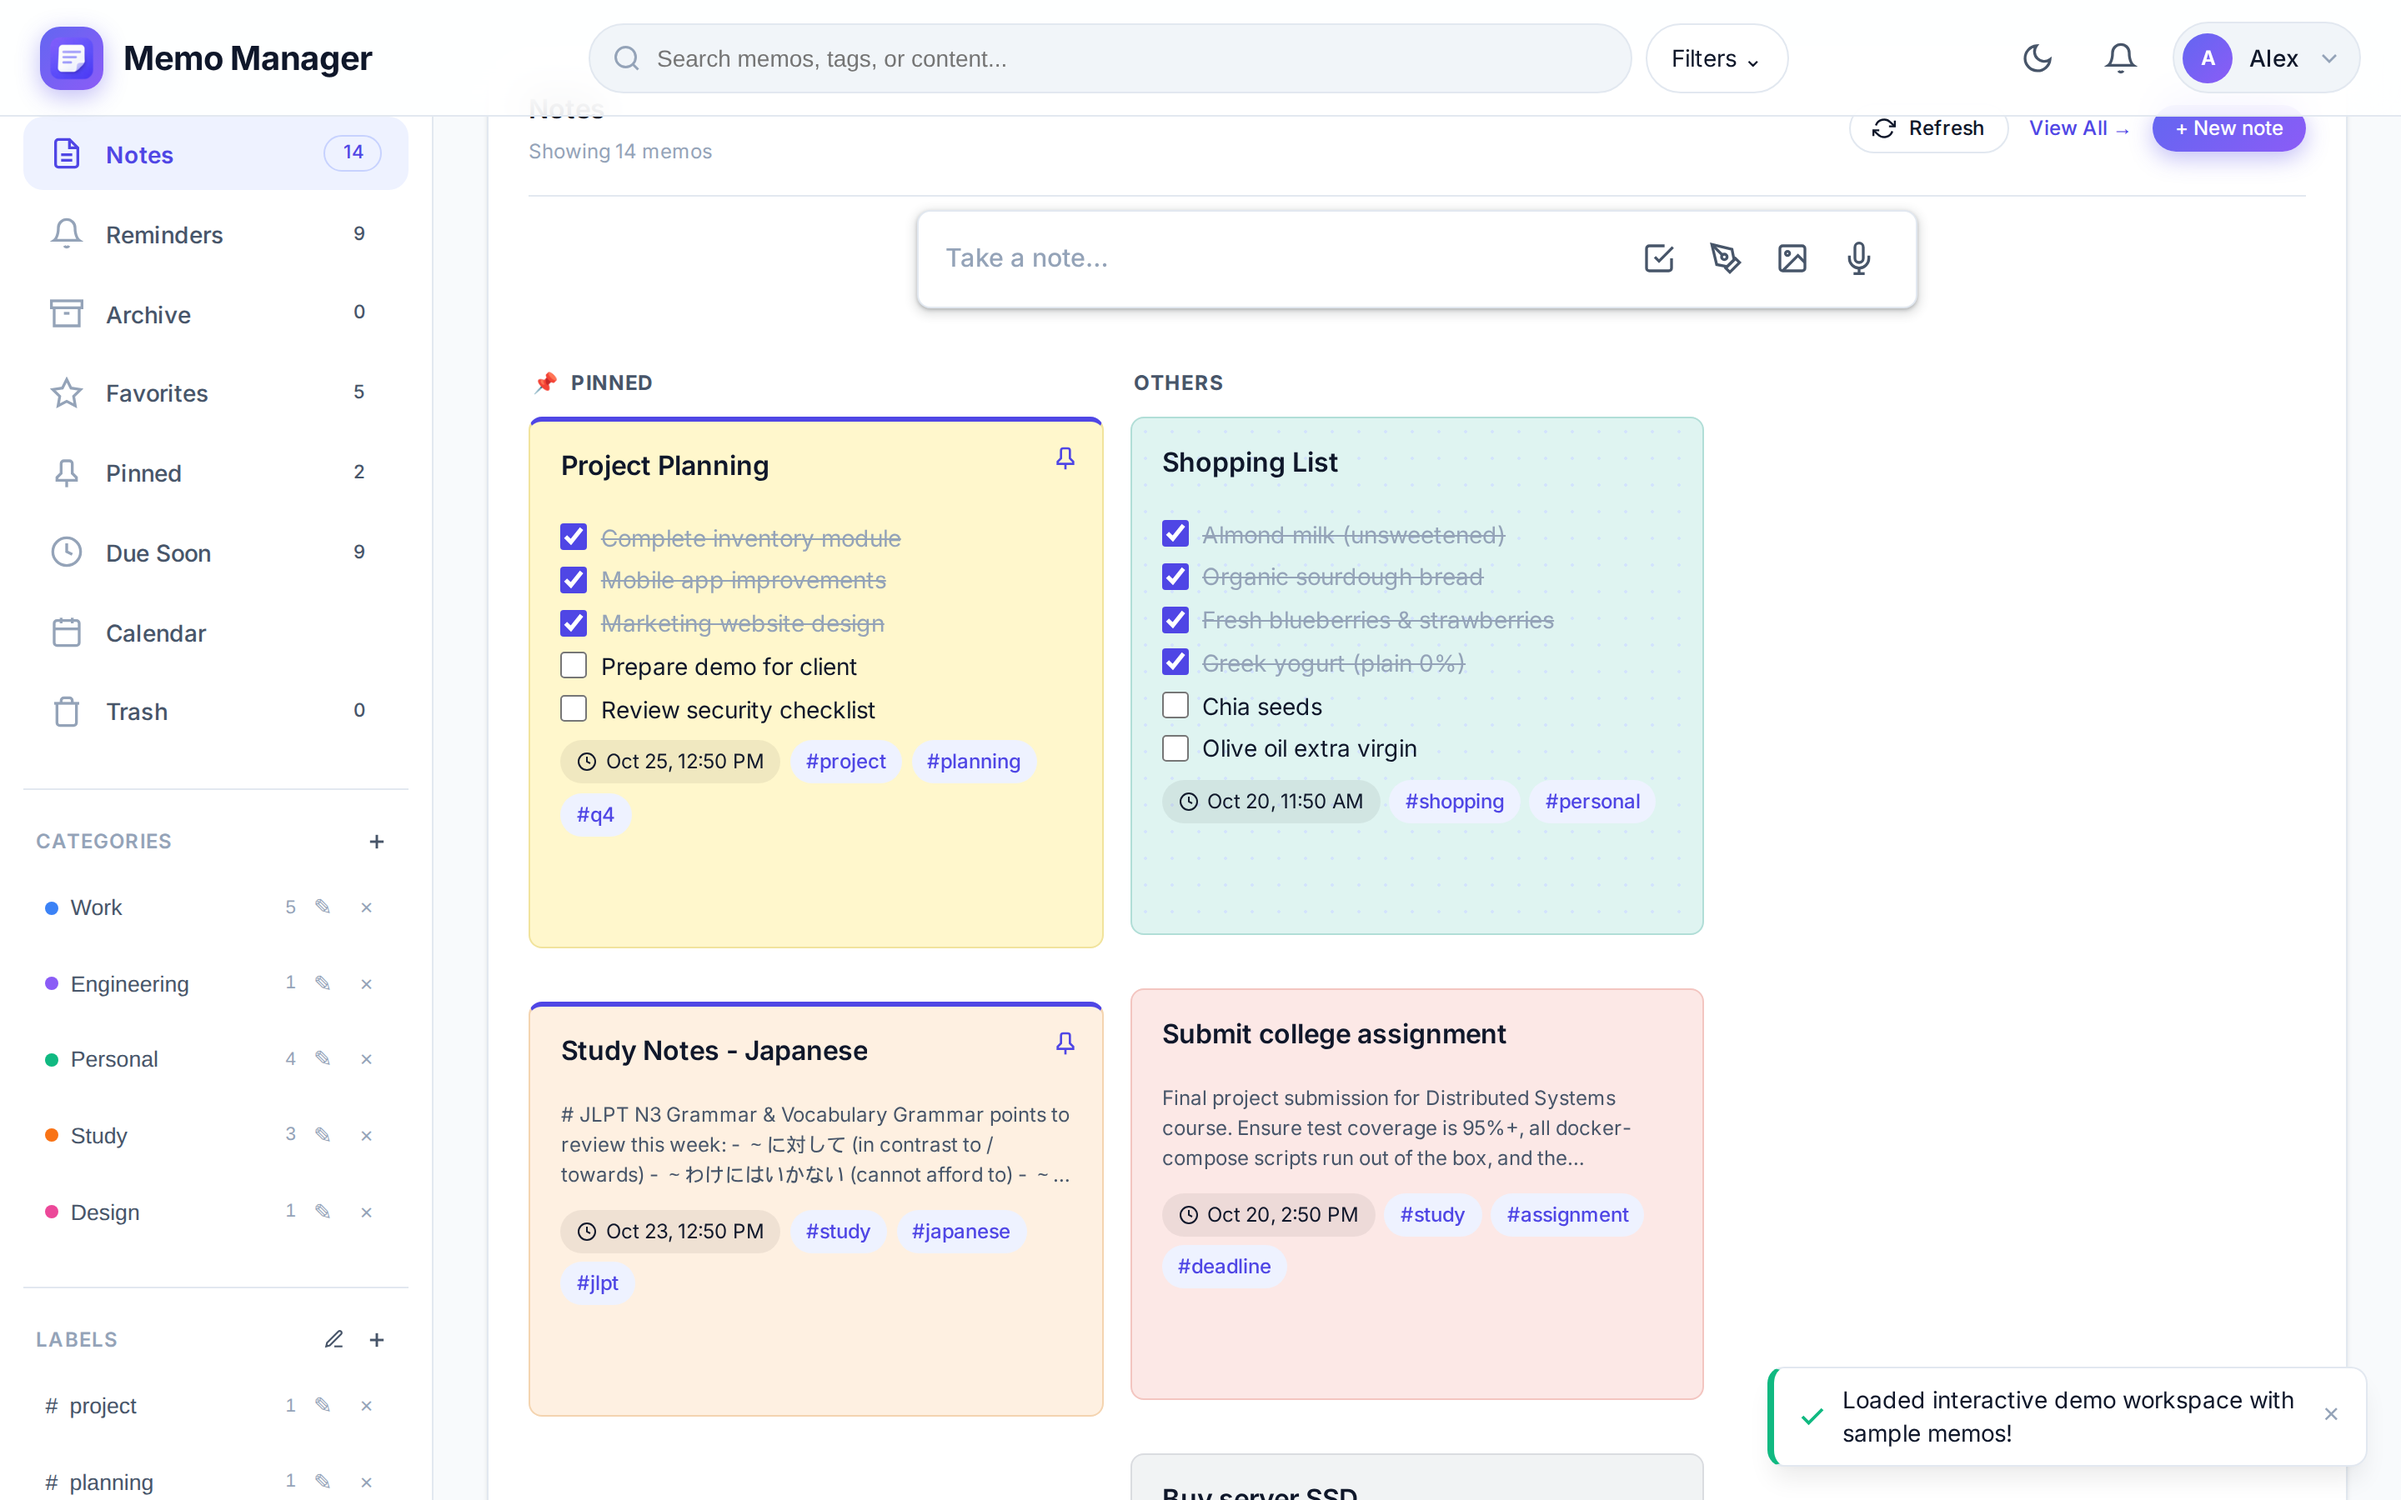
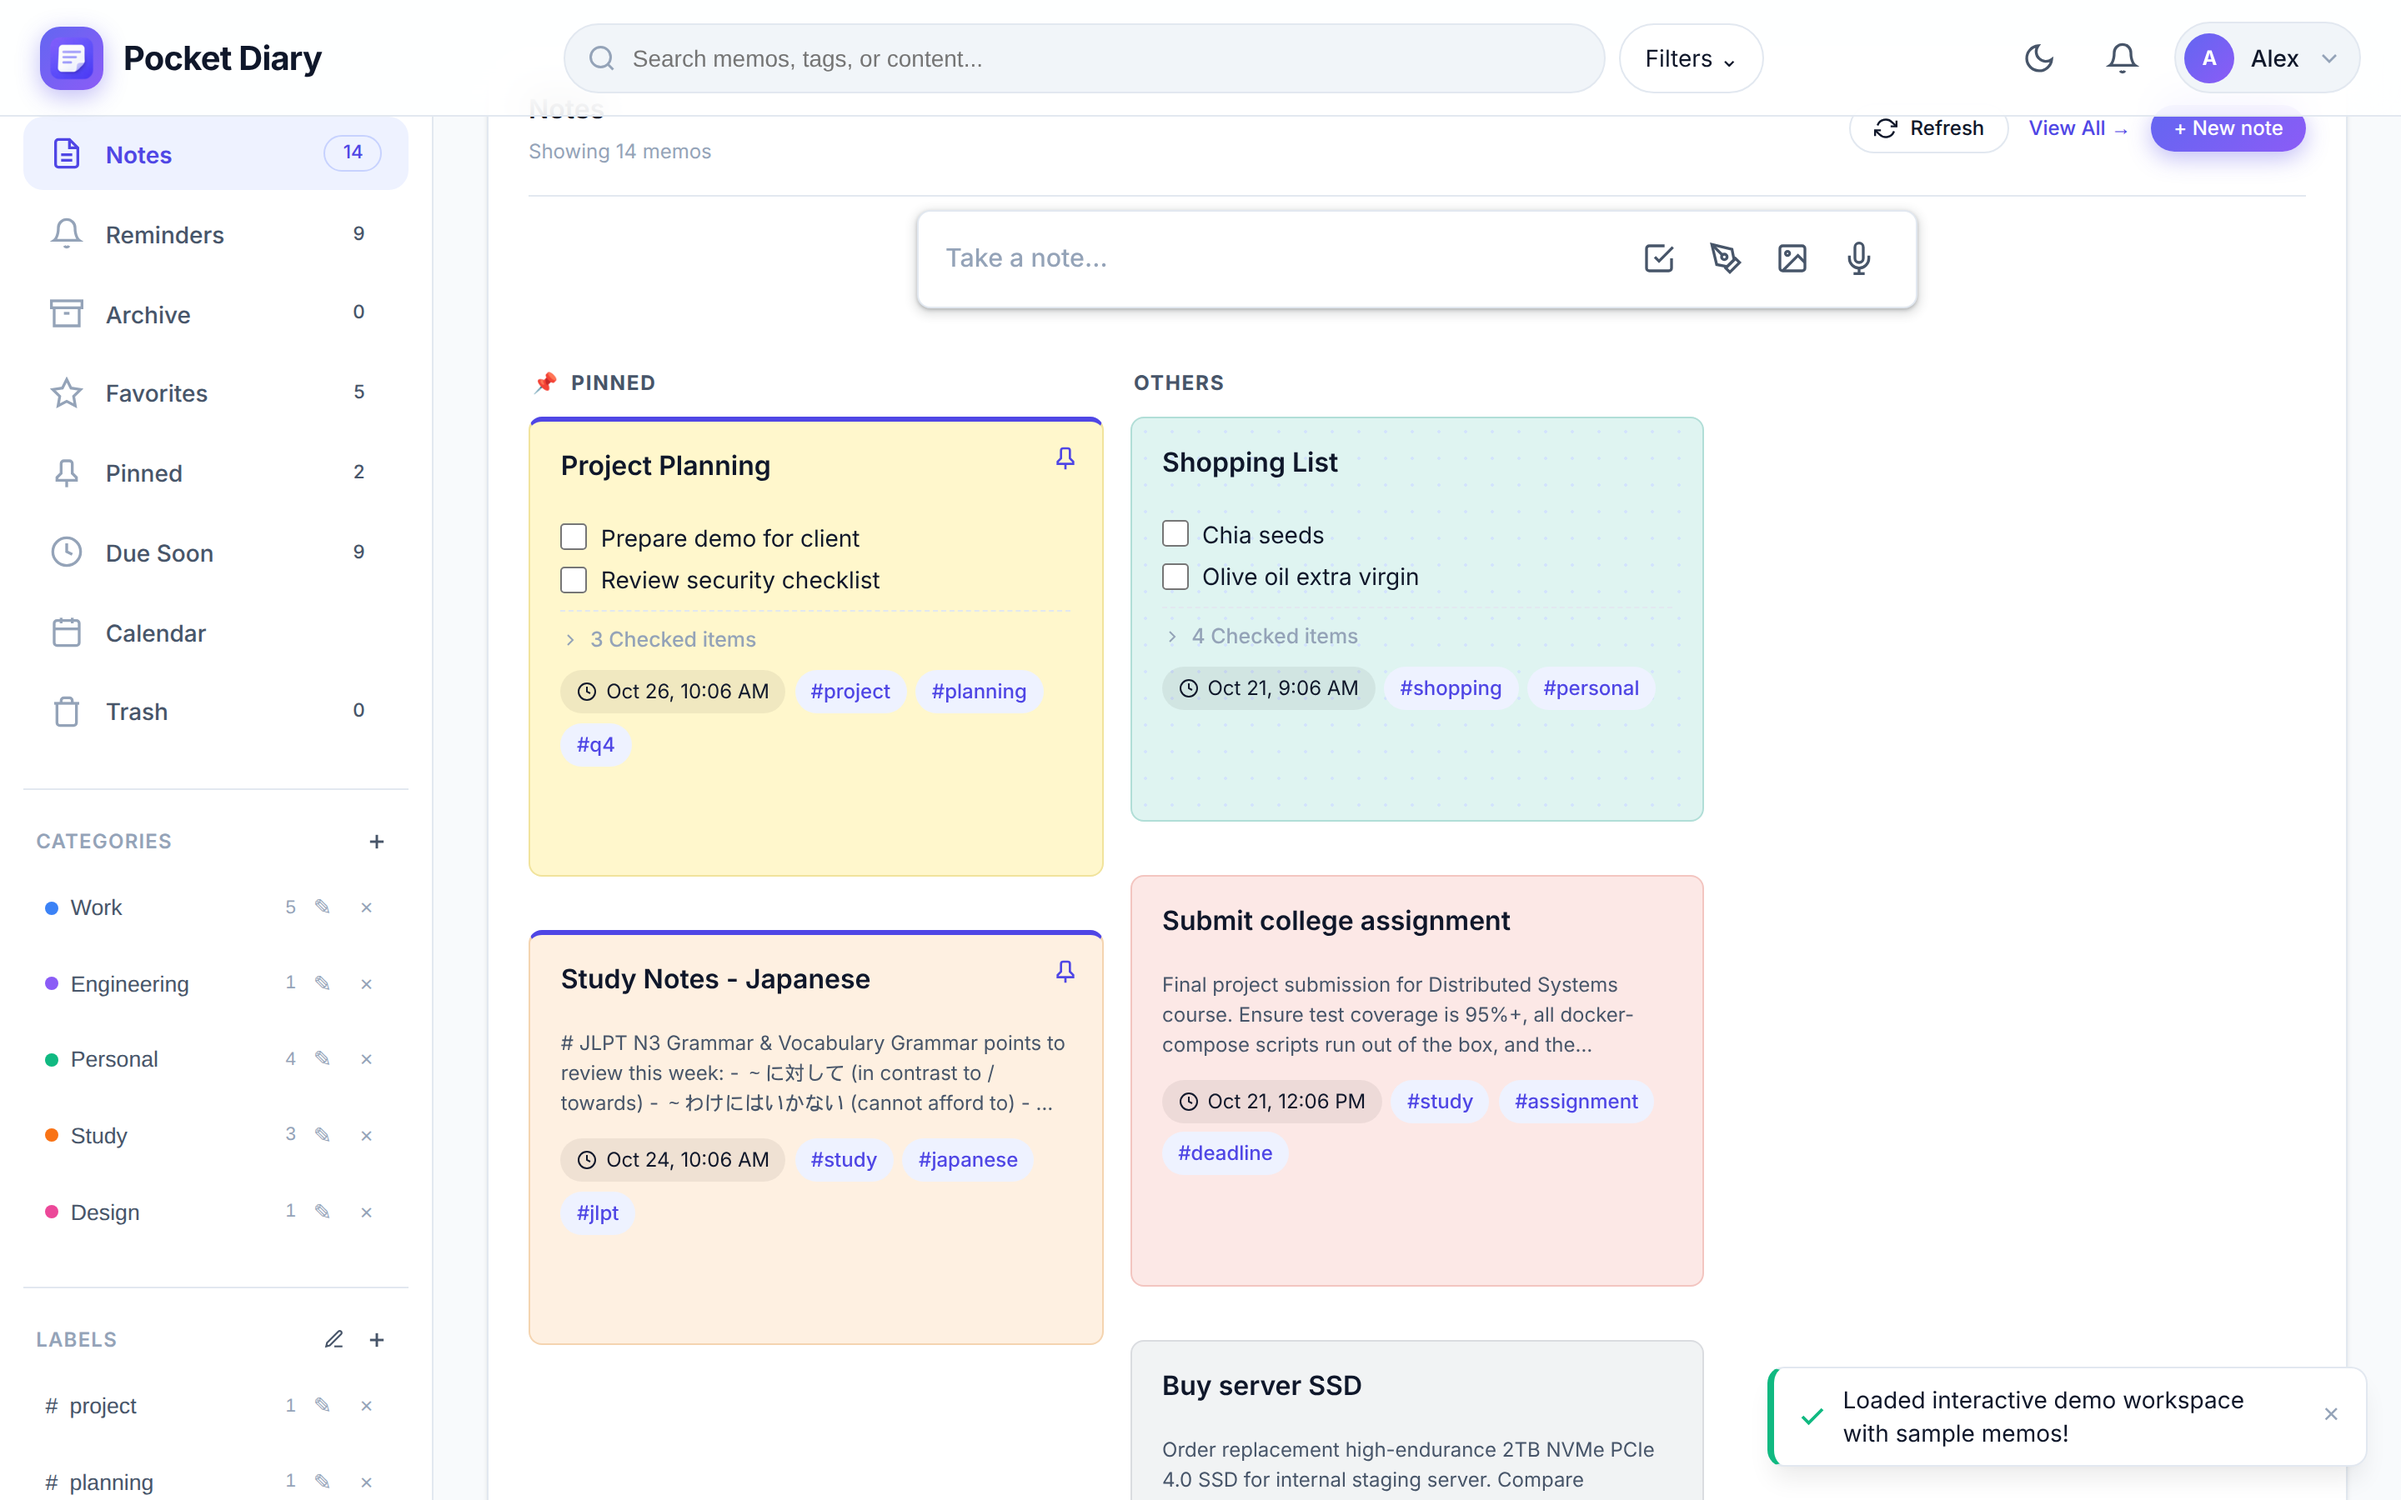
Update project name to Pocket-Diary and replace README screenshots

diff --git a/frontend/js/app-events.js b/frontend/js/app-events.js
@@ -106,7 +106,7 @@ export function setupEventListeners() {
   document.getElementById('nav-register-btn')?.addEventListener('click', () => navigateTo('auth', { mode: 'register' }));
   document.getElementById('hero-get-started-btn')?.addEventListener('click', () => navigateTo('auth', { mode: 'register' }));
   document.getElementById('hero-live-demo-btn')?.addEventListener('click', () => {
-    const demoUser = { id: 'demo-user-1', name: 'Alex', email: 'alex.morgan@memomanager.local' };
+    const demoUser = { id: 'demo-user-1', name: 'Alex', email: 'alex.morgan@pocketdiary.local' };
     const demoWorkspaces = [
       { id: 'demo-ws-personal', name: 'Personal', slug: 'personal', role: 'owner' },
       { id: 'demo-ws-work', name: 'Work', slug: 'work', role: 'member' }

diff --git a/frontend/index.html b/frontend/index.html
@@ -70,7 +70,7 @@
               <span class="nav-dropdown-item-title">API Documentation</span>
               <span class="nav-dropdown-item-desc">OpenAPI / Swagger reference</span>
             </a>
-            <a class="nav-dropdown-item" role="menuitem" href="https://github.com/raushan2015/notes" target="_blank" rel="noopener">
+            <a class="nav-dropdown-item" role="menuitem" href="https://github.com/raushan2015/Pocket-Diary" target="_blank" rel="noopener">
               <span class="nav-dropdown-item-title">GitHub Repository</span>
               <span class="nav-dropdown-item-desc">Source code &amp; self-hosting</span>
             </a>

diff --git a/README.md b/README.md
@@ -2,7 +2,7 @@
 
 A self-hosted, responsive note-taking app for capturing, organizing, searching, and managing personal or team notes. Pocket Diary provides a clean notes-first interface backed by a Fastify API and SQLite, with workspaces and tenant-aware access controls.
 
-Repository: [github.com/raushan2015/notes](https://github.com/raushan2015/notes)
+Repository: [github.com/raushan2015/Pocket-Diary](https://github.com/raushan2015/Pocket-Diary)
 
 ## Contents
 
@@ -133,8 +133,8 @@ For development without Docker:
 1. Clone the repository:
 
    ```bash
-   git clone https://github.com/raushan2015/notes.git
-   cd notes
+   git clone https://github.com/raushan2015/Pocket-Diary.git
+   cd Pocket-Diary
    ```
 
 2. Create a local environment file and generate a unique cookie secret:
